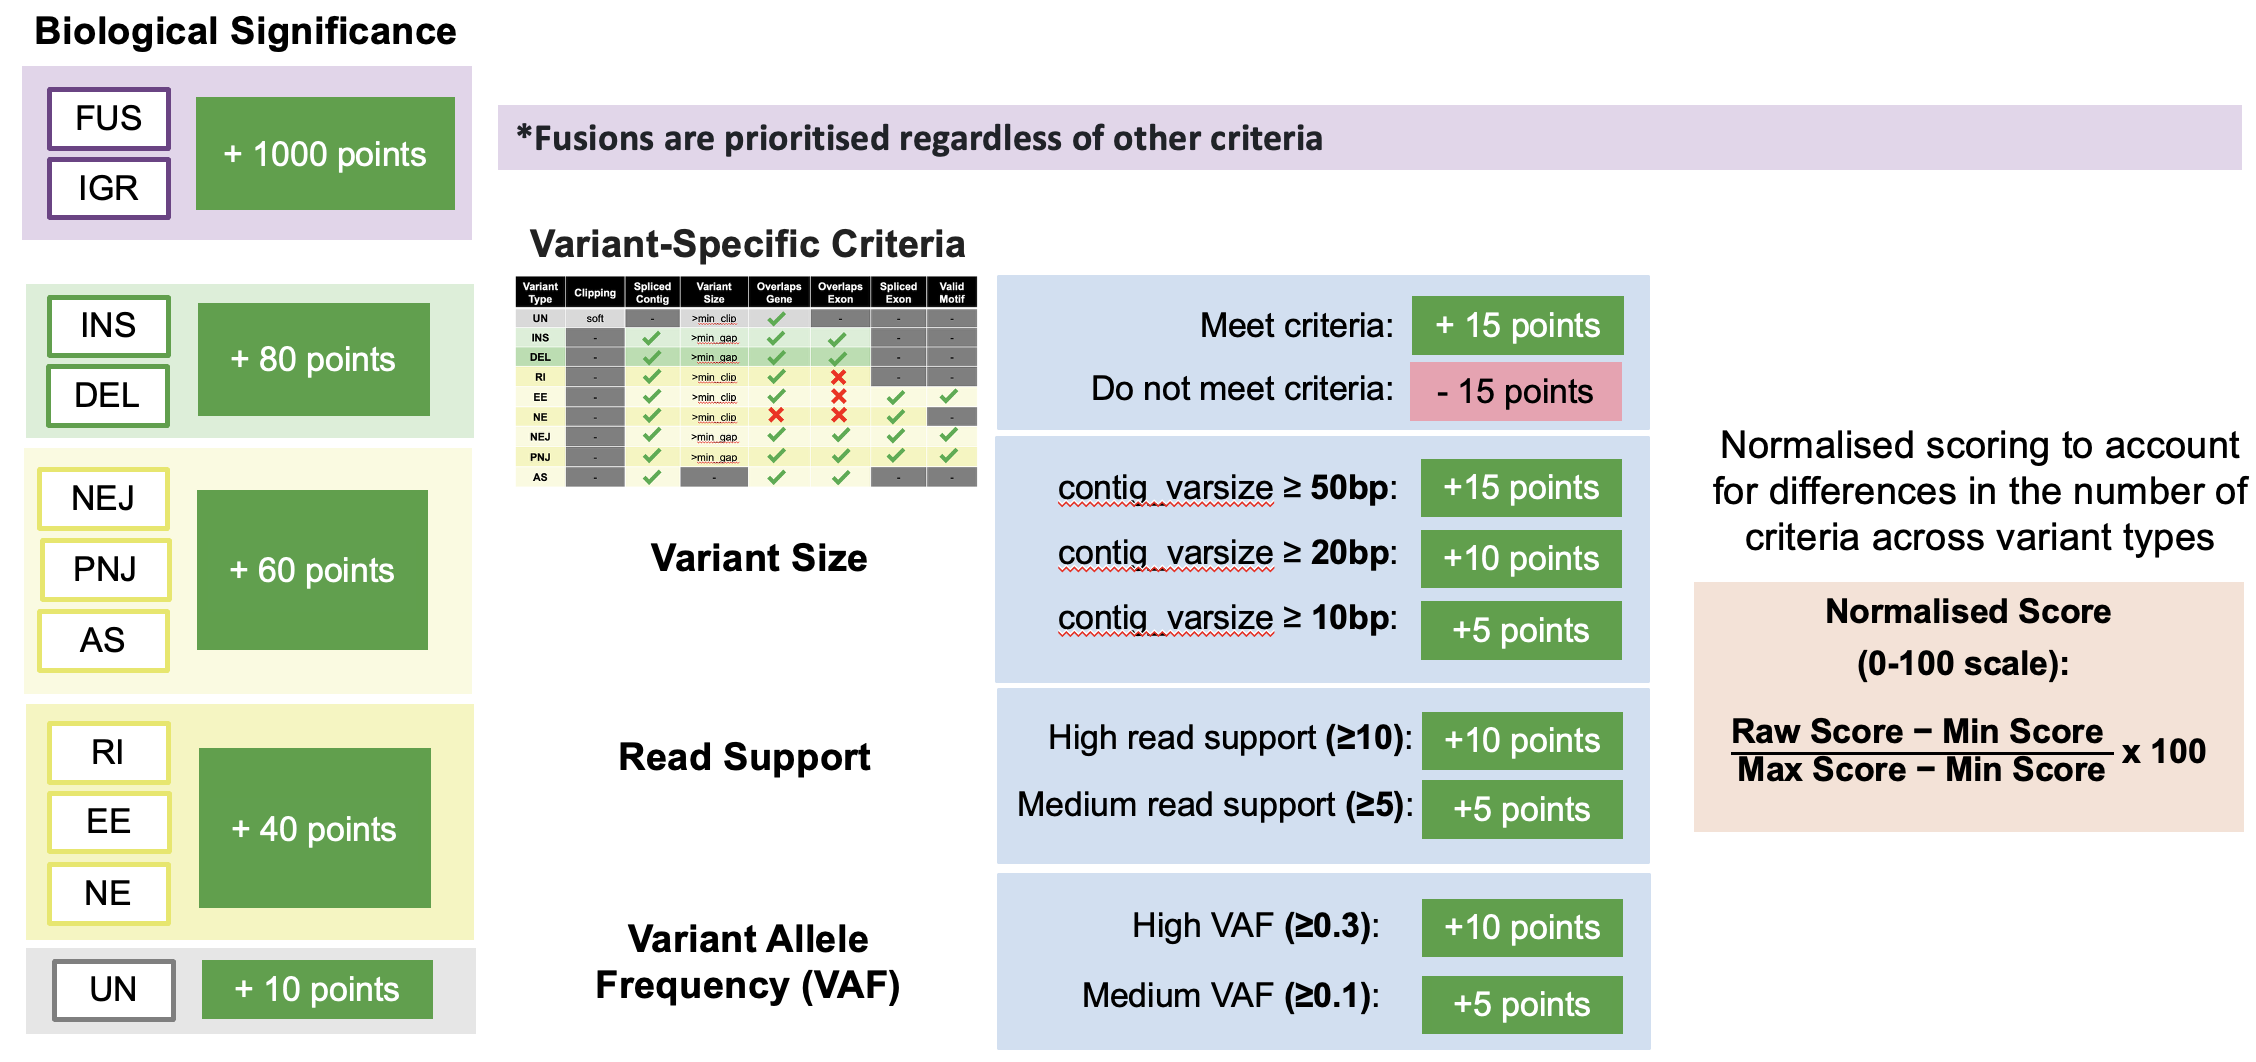
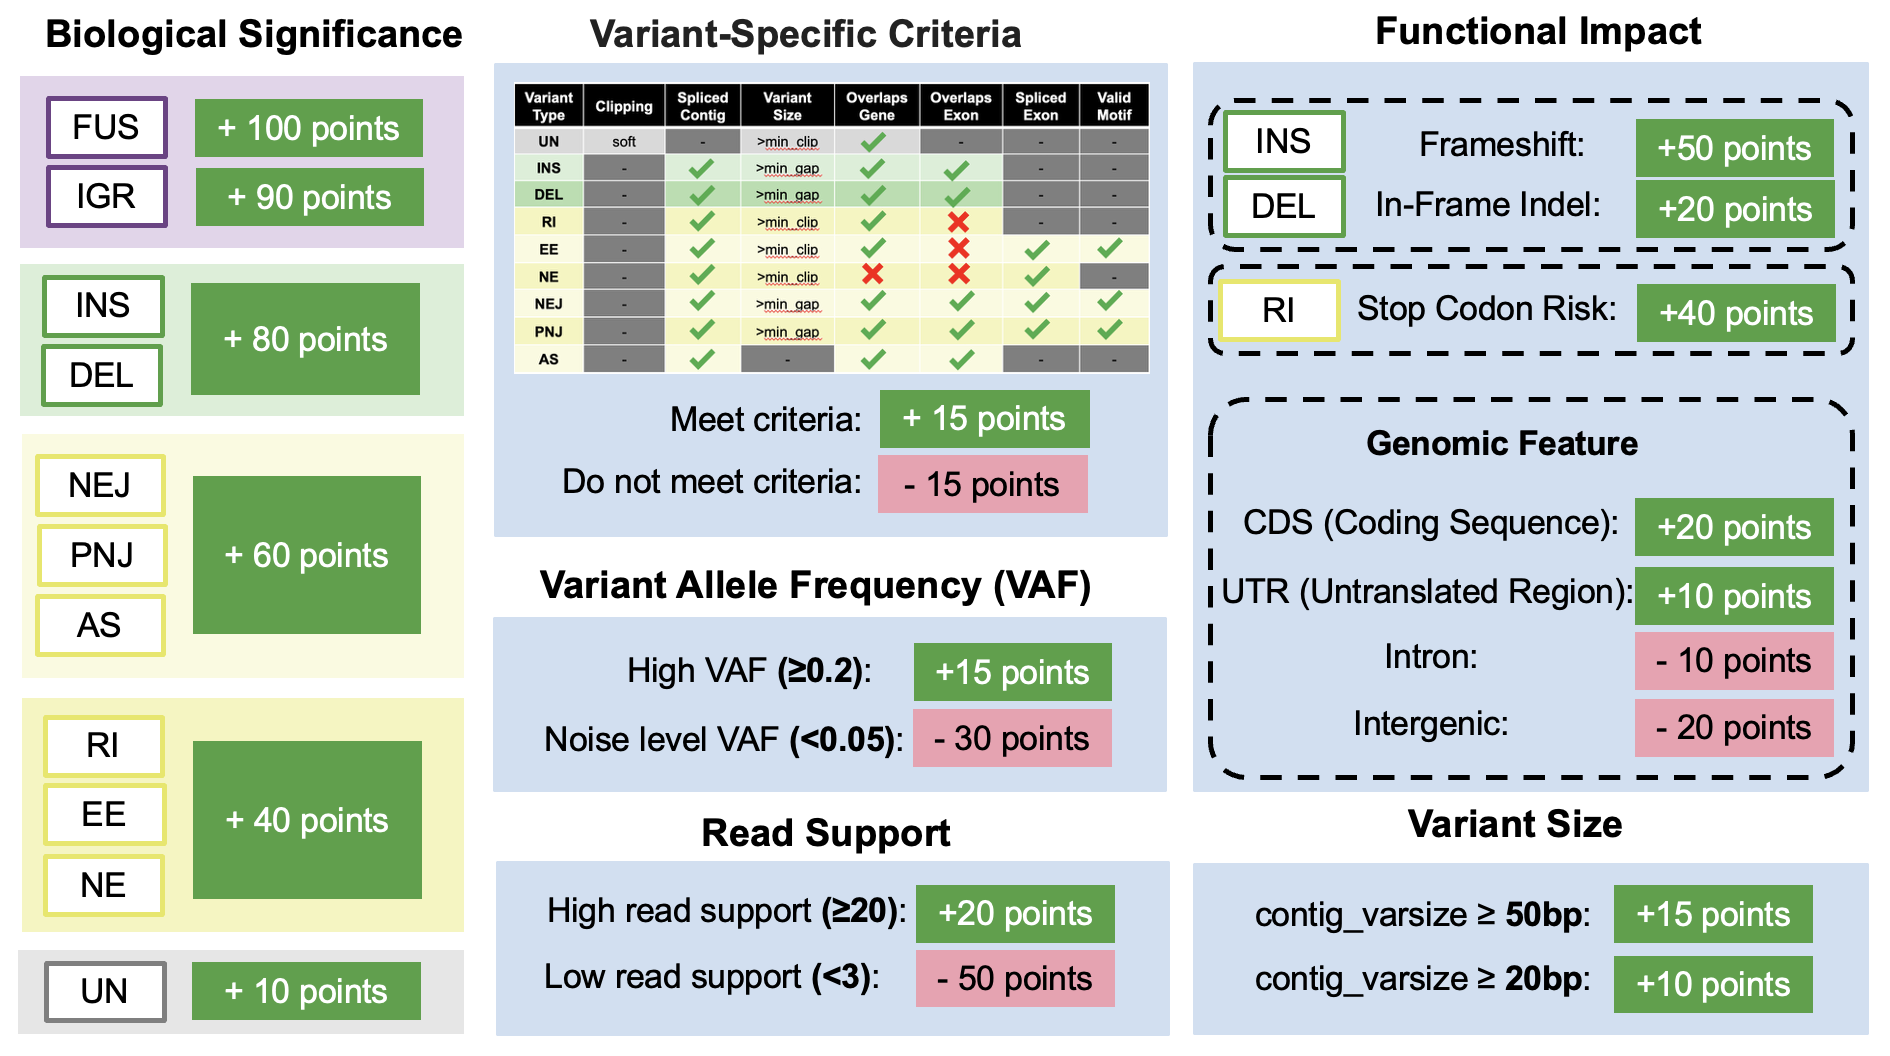
update documentation - new reference files, new output columns, new scoring system

diff --git a/docs/index.html b/docs/index.html
@@ -1648,7 +1648,7 @@
                             </div>
                             <div class="quick-start-step-content">
                                 <div class="quick-start-step-title">Get References</div>
-                                <div class="quick-start-step-desc"><a href="https://zenodo.org/records/17823608" target="_blank">Zenodo</a> (1.1GB)</div>
+                                <div class="quick-start-step-desc"><a href="https://zenodo.org/records/18294960" target="_blank">Zenodo</a> (1.2GB)</div>
                             </div>
                         </div>
                         <div class="quick-start-step">
@@ -1905,16 +1905,16 @@ withLabel: 'process_long' {
             <section class="section" id="references">
                 <h1>Setting Up References</h1>
 
-                <p>Download the compressed pre-built reference package from <a href="https://zenodo.org/records/17823608" target="_blank">Zenodo</a> (1.1GB):</p>
+                <p>Download the compressed pre-built reference package from <a href="https://zenodo.org/records/18294960" target="_blank">Zenodo</a> (1.2GB):</p>
                 <div class="code-block">
                     <button class="copy-btn" onclick="copyCode(this)">Copy</button>
-                    <pre><code>curl -O https://zenodo.org/records/17823608/files/LINDTIE_ref.tar.gz
+                    <pre><code>curl -O https://zenodo.org/records/18294960/files/LINDTIE_ref.tar.gz
 
 # decompress the tar.gz file and remove the tar.gz file                        
 tar xzf LINDTIE_ref.tar.gz && rm LINDTIE_ref.tar.gz</code></pre>
                 </div>
 
-                <p>This will generate a <code>ref</code> directory containing the seven required reference files. Ensure that the <code>ref</code> directory is placed inside the <code>LINDTIE</code> base directory:</p>
+                <p>This will generate a <code>ref</code> directory containing the nine required reference files. Ensure that the <code>ref</code> directory is placed inside the <code>LINDTIE</code> base directory:</p>
 
                 <div class="code-block">
                     <button class="copy-btn" onclick="copyCode(this)">Copy</button>
@@ -1923,6 +1923,8 @@ tar xzf LINDTIE_ref.tar.gz && rm LINDTIE_ref.tar.gz</code></pre>
     ├── chess3.0.fa
     ├── chess3.0.gtf
     ├── chess3.0.info
+    ├── Cosmic_CancerGeneCensus_v103_GRCh38_tier.tsv
+    ├── gencode.v49.primary_assembly.annotation.gtf
     ├── hg38.fa
     ├── hg38.fa.fai
     ├── hg38_splice_junctions.bed
@@ -2240,7 +2242,7 @@ nextflow run $LINDTIE_dir/main.nf -params-file $LINDTIE_dir/params.yaml -profile
                         </div>
                     
                         <pre class="language-yaml"><code class="language-yaml"># Default parameters for the workflow
-# Assembly Mode: 'hybrid', 'denovo', or 'ref_guided'
+# Assembly Mode: 'hybrid', 'denovo_subset', 'denovo', or 'ref_guided'
 assembly_mode: 'hybrid'
 
 ######################## Tool Presets ########################
@@ -2257,6 +2259,7 @@ rnabloom2_preset: ''
 minimap2_preset: 'map-ont'
 
 ######################## Filtering & Thresholds ########################
+subset_count: null          # NULL for no subsetting, otherwise the number of reads to subset to
 RUN_DE: true                # true or false (default: true)
 fdr: 0.05                   # default 0.05
 min_cpm: 0.5                # default 0.5
@@ -2268,6 +2271,7 @@ splice_motif_mismatch: 1    # default 1
 oarfish_num_bootstraps: 10  # default 10
 gene_filter: NULL           # default NULL (e.g. "TP53,BRCA2")
 var_filter: NULL            # default NULL (e.g. "DEL,INS")
+single_sample_min_vaf: 0.1  # default 0.1
                             </code></pre>
                     </div>
                 </div>
@@ -2520,41 +2524,61 @@ var_filter: NULL            # default NULL (e.g. "DEL,INS")
                         </tr>
                         <tr>
                             <td>32</td>
+                            <td>COSMIC_tier</td>
+                            <td>The Cancer Gene Census assessment for the genes involved. Tier 1 denotes genes with documented activity relevant to cancer; Tier 2 denotes genes with strong evidence of a role in cancer but less extensive documentation.</td>
+                        </tr>
+                        <tr>
+                            <td>33</td>
+                            <td>site1_feature</td>
+                            <td>The genomic feature annotation at the exact position of end 1 (e.g., CDS, UTR, intron, intergenic).</td>
+                        </tr>
+                        <tr>
+                            <td>34</td>
+                            <td>site2_feature</td>
+                            <td>The genomic feature annotation at the exact position of end 2 (e.g., CDS, UTR, intron, intergenic).</td>
+                        </tr>
+                        <tr>
+                            <td>35</td>
+                            <td>is_coding</td>
+                            <td>Indicates whether the variant involves coding regions. This is determined by evaluating whether site1_feature and site2_feature are annotated as coding sequences (i.e., CDS).</td>
+                        </tr>
+                        <tr>
+                            <td>36</td>
                             <td>contig_id</td>
                             <td>Contig name from the de novo assembly.</td>
                         </tr>
                         <tr>
-                            <td>33</td>
+                            <td>37</td>
                             <td>unique_contig_ID</td>
                             <td>ID of the modified SuperTranscript used in visualization outputs.</td>
                         </tr>
                         <tr>
-                            <td>34</td>
+                            <td>38</td>
                             <td>contig_len</td>
                             <td>Length of the contig sequence.</td>
                         </tr>
                         <tr>
-                            <td>35</td>
+                            <td>39</td>
                             <td>contig_cigar</td>
                             <td>CIGAR string representing the contig's genome alignment (may contain two strings if soft/hard-clipped).</td>
                         </tr>
                         <tr>
-                            <td>36</td>
+                            <td>40</td>
                             <td>seq_loc1</td>
                             <td>Location string for the first sequence region (e.g., contig123:100–140).</td>
                         </tr>
                         <tr>
-                            <td>37</td>
+                            <td>41</td>
                             <td>seq_loc2</td>
                             <td>Location string for the second sequence region, if applicable.</td>
                         </tr>
                         <tr>
-                            <td>38</td>
+                            <td>42</td>
                             <td>seq1</td>
                             <td>20 bp sequence around the main variant site.</td>
                         </tr>
                         <tr>
-                            <td>39</td>
+                            <td>43</td>
                             <td>seq2</td>
                             <td>20 bp sequence around the second variant site (if applicable).</td>
                         </tr>
@@ -2628,10 +2652,13 @@ var_filter: NULL            # default NULL (e.g. "DEL,INS")
                 <pre><code>&lt;caseName&gt;_output/
 ├── run_parameters.log
 ├── 01-Assembly
-│   ├── rnabloom.transcripts.fa (assembly_mode = hybrid or denovo)
-│   ├── stringtie2_assembly.fa (assembly_mode = hybrid or ref_guided)
-│   ├── stringtie2_assembly.gtf (assembly_mode = hybrid or ref_guided)
-│   └── read_counts_summary.log (assembly_mode = hybrid)
+│   ├── denovo_read_counts.log (assembly_mode = hybrid or denovo or denovo_subset)
+│   ├── rnabloom.transcripts.fa (assembly_mode = hybrid or denovo or denovo_subset)
+│   ├── read_counts_summary.log (assembly_mode = hybrid or ref_guided or denovo_subset)
+│   ├── confident_mapped.bam (assembly_mode = hybrid or ref_guided or denovo_subset)
+│   ├── reads_all_sorted.bam (assembly_mode = hybrid or ref_guided or denovo_subset)
+│   ├── stringtie2_assembly.fa (assembly_mode = hybrid or ref_guided or denovo_subset)
+│   └── stringtie2_assembly.gtf (assembly_mode = hybrid or ref_guided or denovo_subset)
 ├── 02-Quantification
 │   ├── cases
 │   │   ├── &lt;caseName&gt;.infreps.pq
@@ -2664,10 +2691,14 @@ var_filter: NULL            # default NULL (e.g. "DEL,INS")
 
             <h3>01-Assembly</h3>
             <ul>
-                <li><strong><code>rnabloom.transcripts.fa</code></strong>: A FASTA file that contains the assembled transcript sequences produced by RNA-Bloom2. Only present when assembly_mode = hybrid or denovo.</li>
-                <li><strong><code>stringtie2_assembly.fa</code></strong>: A FASTA file that contains the assembled transcript sequences produced by StringTie2. Only present when assembly_mode = hybrid or ref_guided.</li>
-                <li><strong><code>stringtie2_assembly.gtf</code></strong>: A GTF file that contains the assembled transcript annotations produced by StringTie2. Only present when assembly_mode = hybrid or ref_guided.</li>
-                <li><strong><code>read_counts_summary.log</code></strong>: A log file that contains the read counts summary. Only present when assembly_mode = hybrid.</li>
+                <li><strong><code>denovo_read_counts.log</code></strong>: A log file that contains the read counts for the de novo assembly. Only present when assembly_mode = denovo or denovo_subset.</li>
+                <li><strong><code>rnabloom.transcripts.fa</code></strong>: A FASTA file that contains the assembled transcript sequences produced by RNA-Bloom2. Only present when assembly_mode = hybrid or denovo or denovo_subset.</li>
+                <li><strong><code>read_counts_summary.log</code></strong>: A log file that contains the read counts summary. Only present when assembly_mode = hybrid or ref_guided or denovo_subset.</li>
+                <li><strong><code>confident_mapped.bam</code></strong>: A BAM file that contains the confident mapped reads. Only present when assembly_mode = hybrid or ref_guided or denovo_subset.</li>
+                <li><strong><code>reads_all_sorted.bam</code></strong>: A BAM file that contains all the reads mapped to the reference genome. Only present when assembly_mode = hybrid or ref_guided or denovo_subset.</li>
+                <li><strong><code>stringtie2_assembly.fa</code></strong>: A FASTA file that contains the assembled transcript sequences produced by StringTie2. Only present when assembly_mode = hybrid or ref_guided or denovo_subset.</li>
+                <li><strong><code>stringtie2_assembly.gtf</code></strong>: A GTF file that contains the assembled transcript annotations produced by StringTie2. Only present when assembly_mode = hybrid or ref_guided or denovo_subset.</li>
+                <li><strong><code>read_counts_summary.log</code></strong>: A log file that contains the read counts summary. Only present when assembly_mode = hybrid or ref_guided or denovo_subset.</li>
             </ul>
 
             <h3>02-Quantification</h3>